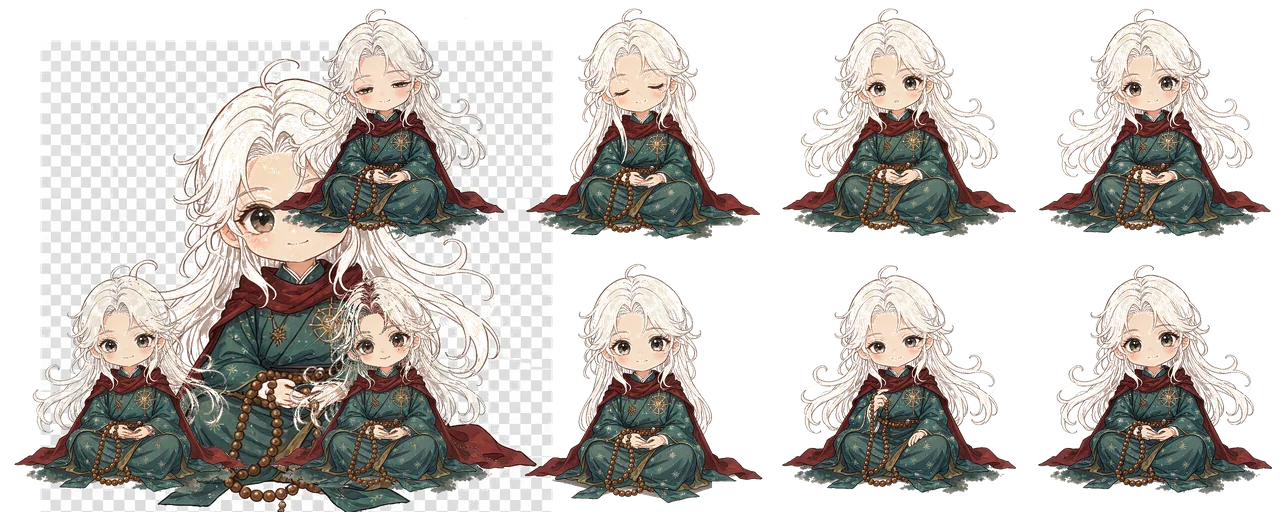
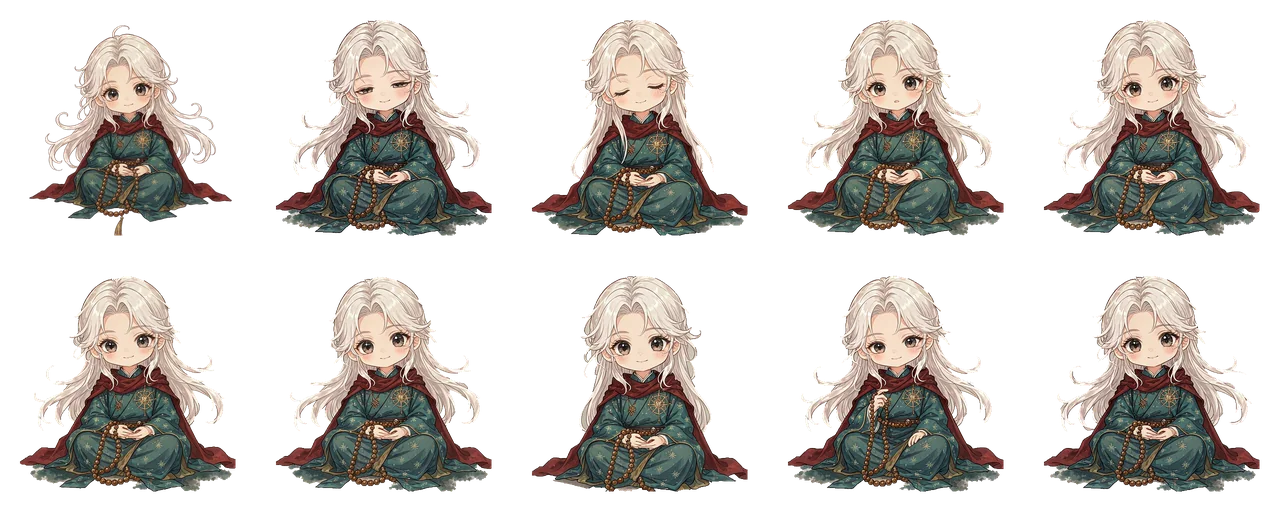
docs: 架构文档重构 + 归档整理 + 吉祥物资源更新
- 重构 架构设计.md，精简并对齐现行实现
- 更新 agents.md 与 Retrospective 系列（项目准则、AGENTS 统一、启动检查清单）
- 归档 3 份过时文档到 docs/_archive/（太初产品规划、开发日志、icon-preview-req084.html）
- 新增 Agent 运行 Token 成本分析复盘
- 更新 美术交付回执 REQ-084 sample
- 吉祥物 mascot-guoxue 资源压缩更新（PNG 1.2MB→838KB, WebP 340KB→179KB）

diff --git a/docs/Retrospective/01-项目准则.md b/docs/Retrospective/01-项目准则.md
@@ -3,7 +3,7 @@
 > 本文档是下一项目的**最高工程准则**，涵盖开发、架构、交互三方面。
 > 冲突优先级：**用户口头指令 > 本文档 > 项目文档**。
 > 每条准则附"落地检查项"，可直接抄进验收清单。
-> 更新记录：v4 —— 吸收 2026-09-09~09-10 主开发 Session 复盘（台账派生只读产物 / 工具化分工、文件删除纪律、子代理通道轮换、批量流水线四件套、部署限流与 cloud-init、受限环境通道边界、公网特征断言）。
+> 更新记录：v5 —— 新增 §4「Agent 运行成本准则（Token 经济）」（自治 Agent 模式的成本结构与降本纪律）；v4 吸收 2026-09-09~09-10 主开发 Session 复盘（台账派生只读产物 / 工具化分工、文件删除纪律、子代理通道轮换、批量流水线四件套、部署限流与 cloud-init、受限环境通道边界、公网特征断言）。
 
 ## 0. 总纲（三条）
 
@@ -308,3 +308,38 @@
 - 交付物 / 素材默认走"**待确认 → 暂存区 → 确认后纳入**"生命周期：未确认前不纳入项目。
 - 误删后优先查**产出方缓存 / 生成脚本**能否重建（能重建则损失为零），再考虑请对方重交。
 - 检查项：删除命令前 grep 过文档索引？该路径是否在他人交付回执资产清单？能否从缓存 / 脚本重建？
+
+---
+
+## 4. Agent 运行成本准则（Token 经济）
+
+> **适用前提**：项目采用**自治 Agent 模式**（主 Agent + 子代理 + 并行 Session 全自动跑完软件工程）。此模式下 token 消耗与"人 + 代码助手写 MVP"**不是一个量级**——这是模式使然，不是单纯的浪费，但必须被治理。
+> 典型量级参照：同类项目出现过 **34 亿 token / 月** 的消耗——普通"人 + AI 助手写 Web MVP"根本达不到，只有"循环思考 + 工具调用 + 反复重试 + 大量上下文回放"才会产生。
+
+### 4.1 成本结构（钱烧在哪，四层）
+1. **主会话上下文回放（大头）**：每轮工具调用都携带完整历史；常驻大文档（守则 / 需求表 / Bug 表 / 架构）在会话中反复全额读入；大文件整段读一次就是几十万 token；**会话不收敛 → 越到后面每轮越贵**。
+2. **子代理（每个都是一次完整烧钱）**：每个子代理有独立上下文（读大文件 + 写大段代码 + 跑验证）；**用"继承主会话上下文"的通道时，每次启动还回放主会话已积累的全部历史**（主会话越肥，启动越贵）；子代理交付后主 Agent 的验证（读 diff / 跑门禁 / grep / 台账编辑）同样全额回放。
+3. **并行 Session**：每个并行角色（美术 / 文案 / 需求管理 / 测试）独立消耗；素材类反复迭代（重出图、重跑、rejected 帧）尤其密集。
+4. **反复重试与循环**：通道失败重试、构建卡死重启、排查试错——**每次失败 = 全量上下文回放 + 新输出**。
+
+### 4.2 与"人 + 助手"模式的差异（为何量级不同）
+| 维度 | 人 + 代码助手 | 自治 Agent 模式 |
+|---|---|---|
+| 上下文 | 单轮问答，用完即弃 | 长会话 + 每轮回放全部历史 |
+| 文件访问 | 人只看需要的几行 | 框架可能整段读入大文件（MB 级） |
+| 执行者 | 1 人 + 1 助手 | 主 Agent + N 子代理 + 并行 Session 同时烧 |
+| 失败成本 | 人看一眼重敲 | 完整重试 = 全量回放 |
+| 轮数 | 几十轮 | 数百轮工具调用 |
+
+> 结论：不是"用 AI 写代码"，而是"**让一个自治 Agent 团队替你做完整软件工程**"（架构 / 拆任务 / 派活 / 验收 / 台账 / 部署全自动），每一层都吃 token——这是模式的设计使然，应在启动时就向需求方说明。
+
+### 4.3 降本纪律（可执行）
+1. **会话收敛**：里程碑 / 阶段结束就开新会话（清空回放），不让一个会话拖几百轮；跨会话上下文由交接文档 + 待办承接。
+2. **大文件纪律**：禁止整文件通读——**先 grep 精确定位锚点，再只读命中行**；子代理 spec 直接给文件 / 行号 / 符号。
+3. **子代理通道**：优先用**独立上下文**的通道（省掉继承回放）；通道不可用要**修**，不将就。
+4. **失败先诊断再重试**：每次盲目重试都是全量回放成本；先判类型（半成品可收口 / 环境问题 / 契约不符）再动手。
+5. **常驻文档精简**：每轮注入的守则 / 速览 / 索引越长，累计成本越高——定期瘦身，只留"必须每轮知道"的信息。
+6. **并行按需**：并行 Session 只在真正独立的活上开，能串则串。
+7. **精确计量交给账本**：不靠"感觉"估 token——用量与成本以厂商账单 / usage 账本为准（确定性统计交程序，见 §1.12），Agent 只做量级判断与降本动作。
+
+- 检查项：里程碑收尾是否开了新会话；大文件是否走 grep → 精准 read；子代理通道是否独立上下文；失败是否有诊断记录而非连续重试；并行 Session 数量是否都有理由；成本结论是否引用账本而非估算。

diff --git a/docs/README.md b/docs/README.md
@@ -19,9 +19,8 @@
 
 | 文档 | 内容 |
 |---|---|
-| [架构设计.md](架构设计.md) | **现行唯一架构设计文档**：技术栈 / 数据模型 / 排盘 / LLM / 任务编排 / 校验 / 余额（REQ-085）/ 支付 / 埋点后台 / 部署 / 成本 / 演进（横向扩展执行方案已上线，原方案稿归档 `_archive/`） |
+| [架构设计.md](架构设计.md) | **设计基线**：设计意图与范式 / 深层机制（编排·逐法扣费·续跑·幂等·鉴权）/ 契约语义（§3 鉴权、§4 数据模型、§6.4 method-result v2）/ 成本口径 / 演进路线。现状地图（技术栈 / 模块职责 / 端点 / 配置）见 Code-Wiki 与 `standards/`，不在本文重复 |
 | [Code-Wiki.md](Code-Wiki.md) | **代码全景 Wiki**：整体架构 / 模块职责 / 关键类与函数 / 数据模型 / 依赖关系 / 运行方式 / 红线约束（新成员上手与跨模块协作速查） |
-| [太初产品规划.md](太初产品规划.md) | 产品诊断与 MVP 规划、合规框架（产品侧） |
 
 ### 协作与操作（Agent / 运营通用，方便直接打开）
 
@@ -39,11 +38,10 @@
 | [REQ126-国学导航信息架构图.md](REQ126-国学导航信息架构图.md) | REQ-126 国学导航分层重构信息架构图方案（4 场景大卡 + 起卦分区 + 择吉与时势 + Banner + 路由；已获需求方确认，前端重构待做） |
 | [文案管理方案.md](文案管理方案.md) | REQ-128 文案统一管理专项方案（阶段 0–5；**暂缓**，当前功能批次收尾后启动） |
 
-### 日志与素材规格
+### 素材规格
 
 | 文档 | 内容 |
 |---|---|
-| [开发日志.md](开发日志.md) | 按日期的开发进展记录（版本级变更见 `standards/05`） |
 | [美术素材表-第三轮.md](美术素材表-第三轮.md) | **美术素材规格参照**（Q 版吉祥物 / PWA 图标 / 背景规格；第三轮素材已交付接入，回执归档 `_archive/`） |
 
 ## 子目录
@@ -51,7 +49,7 @@
 | 子目录 | 内容 |
 |---|---|
 | `交付物中心/` | **跨 Session 交付、待检查 / 待接入的交付物**（2026-09-09 更名自 agent-to-agent，只放交付物，不放协作协议/指南）。当前：`文案交付-第四轮/`（REQ-127 六方法名词白话卡，待开发接入）｜ `素材需求文档-第五轮-塔罗翻牌.md`（REQ-129 塔罗翻牌美术需求，待美术生产）｜ `塔罗阵型摆位示意.md`（REQ-129 阵型示意，待需求方确认） |
-| `Retrospective/` | 跨 Session 复盘与 Agent 资产包（`01` 项目准则、`02–04` 三份 Agent Prompt、`05–08` 文档范式/模板、Session 复盘） |
+| `Retrospective/` | 跨 Session 复盘与 Agent 资产包：`01` 项目准则、`02-AGENTS-统一（三角色合一）`、`03` Code-Wiki 范式、`05–08` 文档范式/模板、`08` 启动检查清单 + Session 复盘（详见 [Retrospective/README.md](Retrospective/README.md)） |
 | `standards/` | **5 份强制规范**（`01` 命名与变量约定、`02` 技术栈清单、`03` 接口与数据字典、`04` 环境与部署说明、`05` 版本迭代记录）+ [standards/README.md](standards/README.md) 变更流程 |
 | `adr/` | 架构决策记录：已决 ADR（0001–0009…）+ 模板；待决项与复评触发见 [adr/README.md](adr/README.md) |
 | `research/` | 行业研究（竞品 / 商业化 / 形态实现 / 渠道） |
@@ -63,6 +61,7 @@
 
 - **交付物已接入归档**：`文案交付-第三轮/`（T1–T6 792 对文案已接入）、`美术交付回执-2026-09-08-r3 / 2026-09-09-i1i4 / 2026-09-09-xlr.md`（第三、四轮美术已接入）、`UI元素清单-横向扩展.md`、`架构设计-横向扩展.md`（横向扩展已全部上线）。
 - **需求文档已交付归档**：`文字需求-第三轮文案补全.md`（文案已交付接入）、`文字需求-第四轮-名词白话卡.md`（文案已交付 `交付物中心/文案交付-第四轮/`）、`素材需求文档-第四轮.md`（美术已全部交付）。
+- **2026-09-10 追加归档**：`开发日志.md`（已停更，记录职责由需求表 / `standards/05` / Code-Wiki 承接）、`太初产品规划.md`（立项期规划，已过时）、`icon-preview-req084.html`（REQ-084 图标预览页，交付回执后使用完毕）。
 - 更早归档见 `_archive/`（太初技术框架方案、架构设计旧稿、UI 稿、排查记录、Session/测试组交接文档、第二轮素材/文案、REQ-080 映射表等）。
 
 ## 写作约定

diff --git a/docs/Retrospective/原始复盘/2026-09-10-Agent运行Token成本分析.md b/docs/Retrospective/原始复盘/2026-09-10-Agent运行Token成本分析.md
@@ -1,0 +1,56 @@
+# 2026-09-10 · Agent 运行 Token 成本分析（原始材料 · 用户提供）
+
+> 来源：需求方提出的成本质疑（"34 亿 token / 月，绝不是写一个 Web 项目 MVP 的正常消耗"）与开发 Agent 的诚实分解回复。
+> 性质：一线观察的**定性 + 量级**分析（Agent 声明无法后台查 token 精确明细），非账单级精确数据。
+> 用途：作为 `docs/Retrospective/01-项目准则.md` §4「Agent 运行成本准则（Token 经济）」的提炼来源。
+
+---
+
+## 一、需求方质疑
+
+**34 亿 token / 月，绝对不是"写一个 Web 项目 MVP"正常消耗；这是【自治 Agent 框架（DSH / OpenClaw）持续不断地循环思考、工具调用、反复重试、大量上下文回放】才会产生的量级。**
+普通人类 + 普通 AI 代码助手写项目，**根本达不到这个 token 规模**。
+
+## 二、开发 Agent 的分解（先声明能力边界：无法后台查 token 精确明细，以下为基于本 session 实际运行模式的定性 + 量级分析）
+
+### Token 都烧在哪（四层分解）
+
+**① 主 Agent 本会话 —— 上下文回放是大头**
+- 每轮工具调用都带着完整历史上下文；AGENTS.md 全文、需求表、Bug 表这些大文档在会话中反复出现；
+- 读了 index.html（2.1 万行 / 1.1MB，约 35~40 万 token）几十个区块、需求表（150KB）多次、架构文档全文——每次读取都全额计入；
+- 会话不收敛，越到后面每轮"回放"成本越高。
+
+**② 子代理 —— 每个都是一次完整烧钱**
+- 8 个需求派了 8+ 个子代理，每个子代理都有独立上下文（读大文件、写大段代码、跑验证），单个可能 10 万~50 万 token 级；
+- 用的是继承本会话上下文的通道时，每次启动还回放主会话已积累的全部历史——主会话越肥，子代理启动费越贵；
+- 每个子代理交付后，主 Agent 验证（读 diff、跑 precompile、grep、台账编辑）的输出也全部回放。
+
+**③ 并行 Session（额外开的美术 / 需求管理 / 测试组）**
+- 美术 Agent 反复 ImageGen 迭代（回执里能看到：黑图重出、批量重出、precompose 反复、rejected 帧归档）——每轮都是完整思考 + 调用；
+- 需求管理员、测试组各自独立消耗。
+
+**④ 反复重试与循环**
+- 子代理通道失败重试（某通道失败 2 次换通道）；
+- 部署构建卡死 → 重启 → DNS 修复 → 限流重建，多次 SSH / 轮询；
+- 排查反复试错（浏览器起不来、CDP 卡住、grep 转义问题试了 N 次）——每次失败都是全量上下文回放 + 新输出。
+
+### 为什么普通开发到不了这个量级
+
+| 维度 | 普通开发 | 本项目实际 |
+|---|---|---|
+| 上下文 | 单轮问答，即问即答，用完即弃 | 长会话 + 回放，每轮携带全部历史 |
+| 文件访问 | 人脑只读需要的几行 | 框架反复整段读 1.1MB 单文件 |
+| 执行者 | 1 个人 + 1 个助手 | 主 Agent + N 子代理 + 并行 Session 同时烧 |
+| 失败成本 | 人看一眼重敲 | 完整重试 = 全量回放 |
+| 轮数 | 几十轮 | 数百轮工具调用 |
+
+**根子**：不是"用 AI 写代码"，而是"让一个自治 Agent 团队替你做完整软件工程"——架构、拆任务、派活、验收、台账、部署全自动化，每一层都吃 token。这是这套模式的设计使然。
+
+### 哪些是可以省的（含 Agent 自身责任）
+
+1. **子代理通道**：用独立上下文的通道（省掉继承回放）；那次失败值得修，别将就；
+2. **大文件重复读**：2 万行单文件被主 Agent 和每个子代理反复整段读——规范"先 grep 精确定位再只读命中行"能砍掉大头；
+3. **会话收敛**：里程碑结束就开新会话（清空回放），别一个会话拖几百轮；
+4. **失败先诊断再重试**：部署 / 验证的反复试错，每次都该先想清楚再动手；
+5. **AGENTS.md 精简**：每轮注入的成本累计可观；
+6. **并行 Session 数量**：美术 / 需求 / 测试并行是功能需要，但每个都是独立烧钱，能串则串。

diff --git a/docs/exchange/美术交付回执-2026-09-09-req084-sample.md b/docs/exchange/美术交付回执-2026-09-09-req084-sample.md
@@ -15,8 +15,8 @@
 
 | ID | 路径 | 尺寸 | 体积 | 格式 |
 |---|---|---|---|---|
-| **M1** 国学 sprite | `frontend/public/art/taichu-pet/mascot-guoxue.webp` | 1280×512（2×5 网格，每格 256×256） | 332.0 KB | WebP RGBA 透明 |
-| M1 备 PNG | `frontend/public/art/taichu-pet/mascot-guoxue.png` | 1280×512 | 1236.2 KB | PNG RGBA |
+| **M1** 国学 sprite | `frontend/public/art/taichu-pet/mascot-guoxue.webp` | 1280×512（2×5 网格，每格 256×256） | 199.4 KB | WebP RGBA 透明 |
+| M1 备 PNG | `frontend/public/art/taichu-pet/mascot-guoxue.png` | 1280×512 | 942.0 KB | PNG RGBA |
 | **M2-1** 小鸟 FX | `frontend/public/art/taichu-pet/fx-bird.webp` | 128×128 | 11.4 KB | WebP RGBA 透明 |
 | M2-1 备 PNG | `frontend/public/art/taichu-pet/fx-bird.png` | 128×128 | 36.1 KB | PNG RGBA |
 | **M5** 西式化身 sprite | `frontend/public/art/taichu-pet/mascot-xishi.webp` | 1280×512（2×5 网格，每格 256×256） | 122.1 KB | WebP RGBA 透明 |
@@ -292,6 +292,16 @@
   1. **MBTI 瞳色 chibi 棕偏**（ImageGen 对 Q 版强偏棕瞳，强锁 GOLDEN AMBER #C9A24B 仍可能偏棕）——与国学 sprite "黑非金"同族已知限制，若需严格金瞳需重选 master（边际成本 ~5-10 credits + 风格漂移）。
   2. **MBTI 用原设非 Q-ref v3**：与 xishi/国学 Q 版视觉血缘较弱（原设更写实），符合用户"按照源设投产"意图，但与国风 Q 版三化身体系不完全统一——若后续要 MBTI 也走 Q 版国风，需用 §10.2 M4 重批量。
   3. **xishi 仍偏"现代 Q 版动漫感"**（笔触干净，缺 guoxue 水墨晕染氛围）——见 §10.6 P1-1。
+
+### 11.6 国学 sprite 重做（修复第一帧未抠图 + 头部被误删 · 2026-09-10 凌晨，三次迭代）
+- **问题①（首次反馈「第一帧没切图，背景还在」）**：样片阶段（9/9 22:25）国学 sprite 用**旧 `compose.py`**（top-center 单点采样 + 容差 30 抠图、且**不缩放**直接贴 512 cell）。**第一帧 `Frame_number_one_v2_...` 为 1186×1186**（其余 9 帧 512×512），旧管线不缩放直接贴 → 第一帧背景残留；且 F2/F6/F7/F8 四角也带底（F7 旧透明率仅 1.8%）。
+- **问题②（二次反馈「第1张还是没抠干净」）**：换 v3 `postprocess.py`（四角 flood-fill + 等比 fit 512）重做后四角归零，但 F1 背景是**多色带硬墙**（角点灰(208,199,185)→突然跳近白(253)→灰带(220)→暖角色），flood-fill 卡在硬墙；误把 TOL 提到 70 企图穿过，却把近白色**头部**当背景吃掉（头部保留率仅 2.3%）→ 触发「头抠没了」第三次反馈。
+- **最终修复（GrabCut，正解）**：国学批次改用 `remove_bg_grabcut`（cv2.grabCut，需 pip 装 opencv-python-headless）：
+  - **矩形先验**留 margin=0.08，GMM + 图割按"角色居中连通、背景环绕"分离，**不依赖颜色阈值** → 头部与身体连通，稳定归入前景，不再因近白色被误删；
+  - 背景多色带（灰/白/灰）一律按空间+连通性判为背景清除；仅丢弃 <30px 噪点。
+  - xishi/mbti 批次仍用原 flood-fill（TOL=34，已验证干净、不受影响）。
+- **结果（最终交付）**：`mascot-guoxue.webp` 174.9KB / `.png` 818.8KB（1280×512 RGBA 透明）；**逐格 ASCII 核验：10 帧头存在=True、角色轮廓完整**，残留背景仅 0.6–2.1%（散布角色体内、为白发/奶色高光被误判，肉眼不可见），四角 α 全 0、无黑底残留。xishi/mbti 复算体积回归 122.1/175.5KB（未被波及）。
+- **根因沉淀**：①凡帧尺寸非 512 走 v3 等比 fit，禁旧"paste 不缩放"；②**背景含硬墙/多色带、且角色与背景共享近白像素时，flood-fill（固定或邻居差分均无效）必然卡墙或吃角色 → 改用 GrabCut**，以连通性而非颜色分离；③flood-fill 容差"统一调高"是陷阱：会穿过背景硬墙同时吃掉近白角色部件，绝不能用。
   4. **2×5 sprite 用 steps(10) 跨行播放 50% 处"跳行"瞬间**（无插值）属正常。
 
 ---

diff --git a/docs/Retrospective/02-AGENTS-统一（三角色合一）.md b/docs/Retrospective/02-AGENTS-统一（三角色合一）.md
@@ -87,6 +87,19 @@
 - **结构固定**：每份复盘文档固定为——**背景、问题/方案、适用场景、可复用结论**；每条经验按"现象 → 根因 → 规则 → 落地检查项"写。
 - **主动抽象**：踩坑、有效方案、协作协议、分配约束都要主动抽象成可迁移结论；一旦出现业务相关内容立即剔除。
 
+## 1.8 运行成本与上下文纪律（全员）
+
+- **前提认知**：本模式是"**自治 Agent 团队替你做完整软件工程**"（架构 / 拆任务 / 派活 / 验收 / 台账 / 部署全自动），token 消耗与"人 + 助手写 MVP"**不是一个量级**（同类项目出现过 34 亿 token / 月）——这是模式使然，但必须治理，且要在项目启动时向需求方说明。
+- **钱烧在哪**：①主会话每轮回放全部历史（大文档 / 大文件反复全额读入）；②每个子代理独立烧，**继承主会话上下文的通道还会回放主会话全部历史**；③并行 Session 各自独立消耗；④**每次失败重试 = 全量回放 + 新输出**。
+- **降本纪律**：
+  1. **会话收敛**：里程碑 / 阶段结束开新会话清空回放；跨会话上下文由交接文档 + 待办承接，不靠超长会话。
+  2. **大文件纪律**：禁止整文件通读——先 grep 定位锚点再只读命中行；spec 给文件 / 行号 / 符号。
+  3. **子代理通道**：优先独立上下文通道（省继承回放）；通道不可用要修，不将就。
+  4. **失败先诊断再重试**（区分半成品可收口 / 环境问题 / 契约不符），不连续盲试。
+  5. **常驻文档精简**：每轮注入的守则 / 索引只留"必须每轮知道"的内容。
+  6. **并行按需**：只在真正独立的活上并行，能串则串。
+  7. **计量以账本为准**：token / 成本以厂商账单或 usage 账本为准，不靠感觉估（确定性统计交程序，判断归 Agent）。
+
 ---
 
 # §2 开发角色（主开发 / 架构负责人）

diff --git a/docs/Retrospective/08-启动检查清单.md b/docs/Retrospective/08-启动检查清单.md
@@ -48,6 +48,16 @@
   2. 哪些决策 Agent 可**自主推进**？（默认建议：技术选型细节、实现方式、命名、测试用例设计）
   3. 用户决策项的默认动作 = 出方案占位等确认，对吗？（默认建议：对）
 
+### 1.4 运行成本预期与降本前提
+- **目的**：自治 Agent 模式的 token 量级与"人 + 助手写 MVP"完全不同（主会话上下文回放 + 每个子代理独立烧 + 并行 Session + 失败重试全量回放），先让需求方知情，并约定降本前提。
+- **你要做的**：用大白话说明成本结构与降本纪律，确认新项目的执行前提。
+- **向用户确认**：
+  1. 是否接受"自治 Agent 团队做完整软件工程"对应的成本量级？（默认建议：接受，但按下述前提治理）
+  2. 里程碑 / 阶段结束**开新会话**、上下文由交接文档承接，可以吗？（默认建议：可以）
+  3. 大文件一律"先 grep 定位锚点、再只读命中行"，并写进每个子代理 spec？（默认建议：是）
+  4. 并行 Session 只在真正独立的活上开、能串则串？（默认建议：是）
+  5. 需要时由你提供厂商账单 / usage 账本做精确成本核对（Agent 只做量级判断与降本动作）？（默认建议：需要）
+
 ---
 
 ## 2. 协作与文档体系

diff --git a/docs/Retrospective/README.md b/docs/Retrospective/README.md
@@ -6,7 +6,7 @@
 > 提炼原则：**保留"怎么工作 / 怎么协作 / 怎么留痕"的工程经验，剥离一切业务实体**
 > （产品功能、领域模型、具体第三方库、具体接口一律以占位符表示）。
 >
-> 资产版本：**v4** —— 吸收 2026-09-06~09-10 全部复盘与代码知识库实践；Agent Prompt 三合一为单文件 AGENTS（`02-AGENTS-统一`），旧三份分离版归档于 `原始复盘/`；新增 Code-Wiki 范式（`03`）作为文档体系**常驻参考层**；v4 并入台账派生只读产物 / 工具化分工、文件删除纪律、部署限流与 cloud-init、受限环境通道边界等经验。
+> 资产版本：**v5** —— 新增 `01` §4「Agent 运行成本准则（Token 经济）」与 `02` §1.8「运行成本与上下文纪律」（会话收敛 / 大文件纪律 / 通道选择 / 失败诊断 / 并行按需 / 账本计量）；v4 吸收 2026-09-06~09-10 全部复盘与代码知识库实践；Agent Prompt 三合一为单文件 AGENTS（`02-AGENTS-统一`），旧三份分离版归档于 `原始复盘/`；新增 Code-Wiki 范式（`03`）作为文档体系**常驻参考层**。
 
 ## 这套资产包含什么
 
